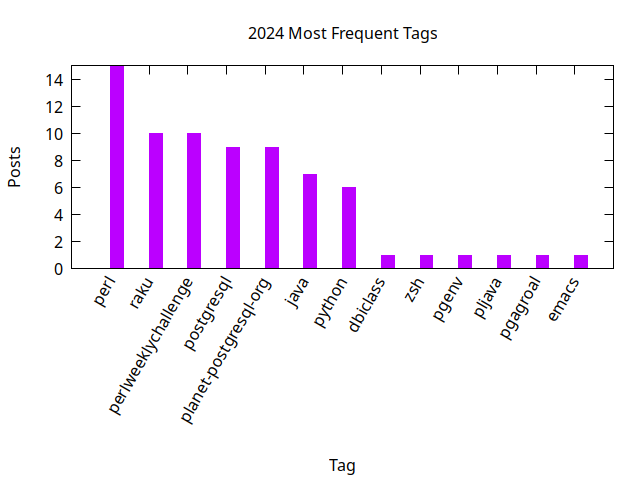
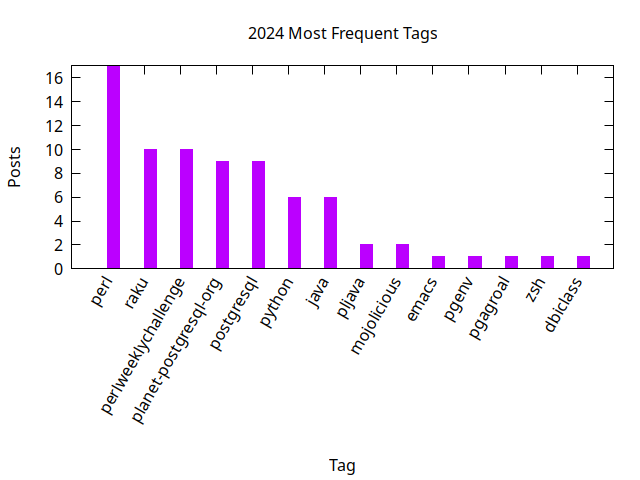
Fix stats

Changed region(s): [[0.125, 0.125, 0.9375, 0.875], [0.0625, 0.1562, 0.125, 0.4688], [0.0625, 0.5, 0.125, 0.5312]]

diff --git a/_includes/stats/2024.md b/_includes/stats/2024.md
@@ -1,23 +1,24 @@
 <a name="2024" />
 ## 2024 (work in progress)
 
-**23 total posts** have been written on 2024.
-There have been *13 different tags* used, the most
+**25 total posts** have been written on 2024.
+There have been *14 different tags* used, the most
 popular being (sorted by number of posts):
  
-- *perl* (15 posts)  
+- *perl* (17 posts)  
 - *raku* (10 posts)  
 - *perlweeklychallenge* (10 posts)  
-- *postgresql* (9 posts)  
 - *planet-postgresql-org* (9 posts)  
-- *java* (7 posts)  
+- *postgresql* (9 posts)  
 - *python* (6 posts)  
-- *dbiclass* (1 posts)  
-- *zsh* (1 posts)  
+- *java* (6 posts)  
+- *pljava* (2 posts)  
+- *mojolicious* (2 posts)  
+- *emacs* (1 posts)  
 - *pgenv* (1 posts)  
-- *pljava* (1 posts)  
 - *pgagroal* (1 posts)  
-- *emacs* (1 posts).<br/>
+- *zsh* (1 posts)  
+- *dbiclass* (1 posts).<br/>
 <br/>
 The following is the overall 2024 post ratio by month:
 <br/>
@@ -36,7 +37,7 @@ The following is the overall 2024 post ratio by tag (showing max 30 tags):
 
 <div align="right">
 <small>
-Last generated on 2024-02-26 at 11:37
+Last generated on 2024-02-29 at 17:36
 </small>
 </div>
 

diff --git a/_posts/2024-01-17-pljavaPostgreSQL16.md b/_posts/2024-01-17-pljavaPostgreSQL16.md
@@ -5,7 +5,7 @@ author: Luca Ferrari
 tags:
 - postgresql
 - planet-postgresql-org
-- java
+- pljava
 permalink: /:year/:month/:day/:title.html
 ---
 A short recap on some issues when dealing with PL/Java and Rocky Linux.
